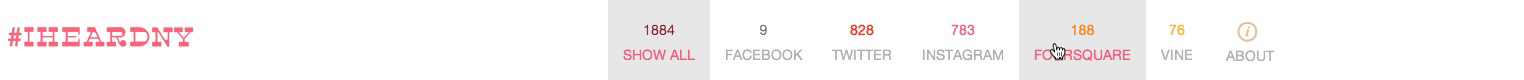
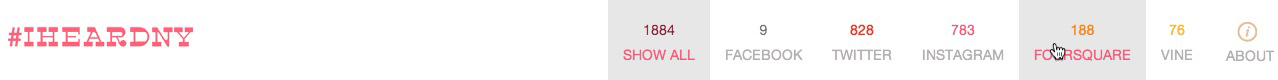
fixed nav and decided on a iheardny version

Changed region(s): [[0.3967, 0.2, 1.0, 0.8], [0.0, 0.325, 0.1526, 0.6], [0.9155, 0.275, 1.0, 0.525]]

diff --git a/iheardnyOLD.html b/iheardnyOLD.html
@@ -1,7 +1,7 @@
 <!DOCTYPE html>
 <html>
   <head>
-    <link type="text/css" rel="stylesheet" href="mock2.css">
+    <link type="text/css" rel="stylesheet" href="mock.css">
     <meta charset="utf-8">
     <meta http-equiv="X-UA-Compatible" content="IE=edge,chrome=1">
     <meta name="viewport" content="width=device-width, initial-scale=1.0, maximum-scale=1">
@@ -10,7 +10,7 @@
   <body>
     <div class="fakeNav"></div>
     <div class="center">
-      <iframe src="index2.html"></iframe>
+      <iframe src="index.html"></iframe>
     </div>
     <div class="body"></div>
   </body>
